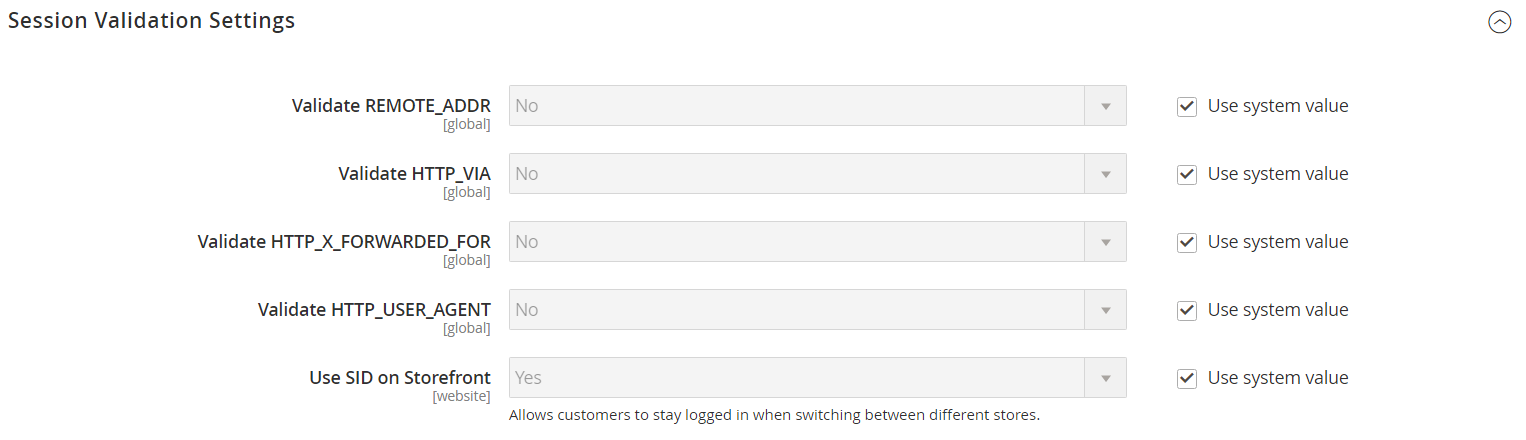
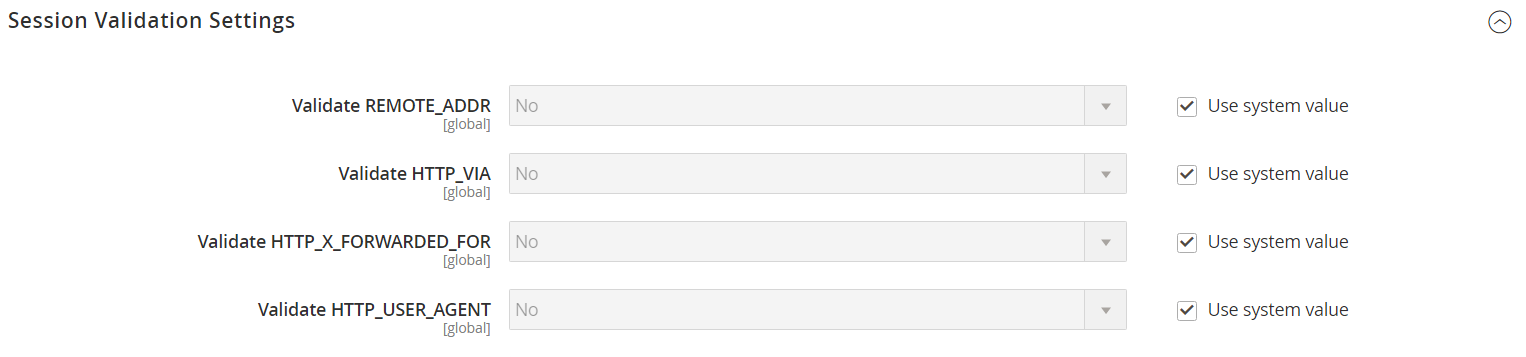
Remove the "Use SID on Frontend"  (session ID) option

diff --git a/src/configuration/general/web.md b/src/configuration/general/web.md
@@ -107,7 +107,6 @@ Stores > Settings > [Configuration]({% link stores/configuration.md %}) > [Gene
 |Validate HTTP_VIA|Global|Verifies incoming proxy data and checks that the proxy address of a request matches `$_SESSION` data. The session terminates if a different proxy address is detected. Options: Yes / No|
 |Validate HTTP_x_FORWARDED_FOR|Global|Verifies outgoing proxy data and checks that the forwarded-for address of a request matches  `$_SESSION` data. The session terminates if a different forwarded-for address is detected. Options: Yes / No|
 |Validate HTTP_USER_AGENT|Global|`USER_AGENT` refers to the browser or device that is used to access the website. It verifies that the name and version of the browser, and operating system, matches `$_SESSION` data. The session terminates if a different user agent is detected from one request to another in the same session. Options: Yes / No|
-|Use SID on Frontend|Website|The session ID (SID) is a unique code added to storefront URLs to ensure that each user is attached to the correct session data. The SID also makes it possible for customers to stay logged in when switching stores. If using analytics, you must configure the program to filter the SID from URLs in order to get an accurate page visit report. Options: Yes / No|
 
 ## Browser Capabilities Detection
 

diff --git a/src/stores/security-session-validation.md b/src/stores/security-session-validation.md
@@ -31,10 +31,6 @@ Enabling all of the validation variables can help prevent attacks, but might als
 
     - **Validate HTTP_USER_AGENT** — Set to `Yes` to verify that the browser or device that is used to access the store during a session matches what is stored in the `$_SESSION` variable.
 
-    - **Use SID on Frontend** — Set to `Yes` if you want a user to stay logged in while switching between stores.
-
-        If you are including SID (session ID) with analytics, you must configure your analytics software to filter the SID from URLs so the page visit counts are correct.
-
 1. When complete, click <span class="btn">Save Config</span>.
 
 [1]: http://devdocs.magento.com/guides/v2.3/config-guide/redis/redis-session.html
